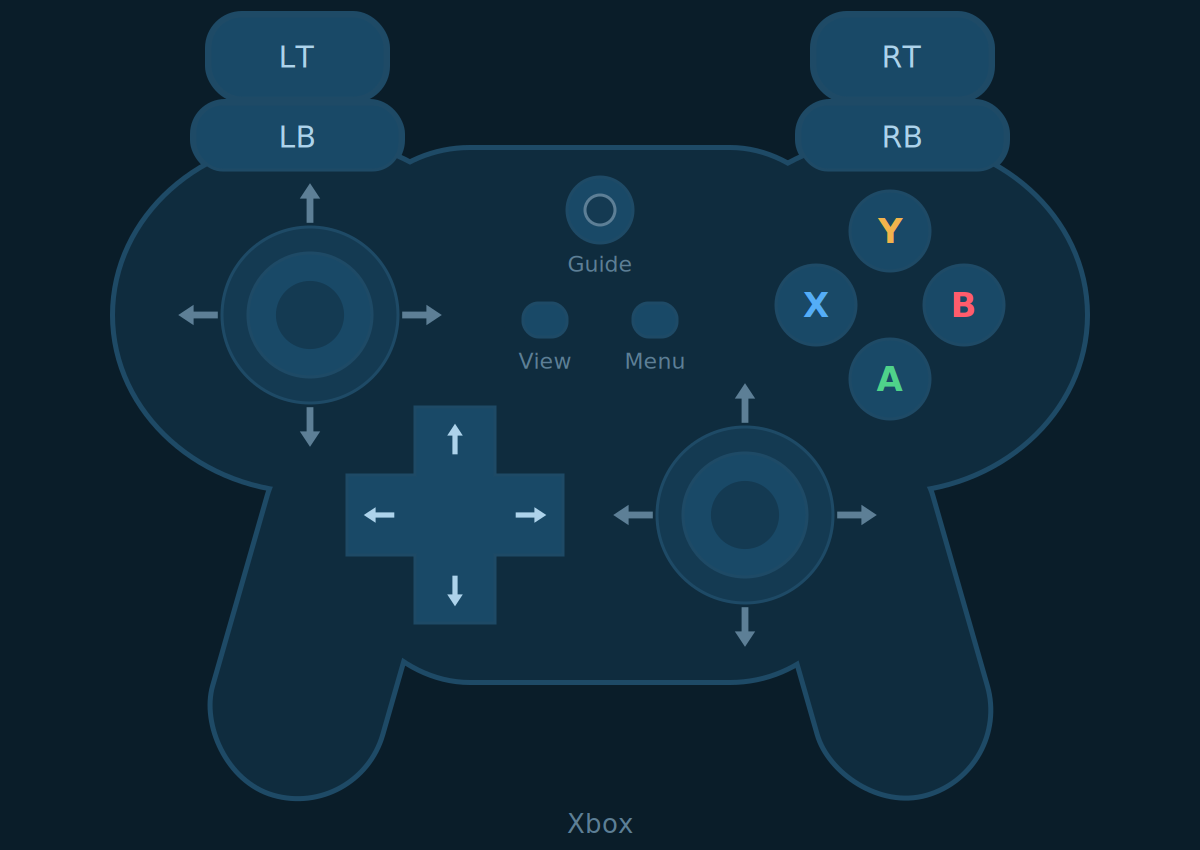
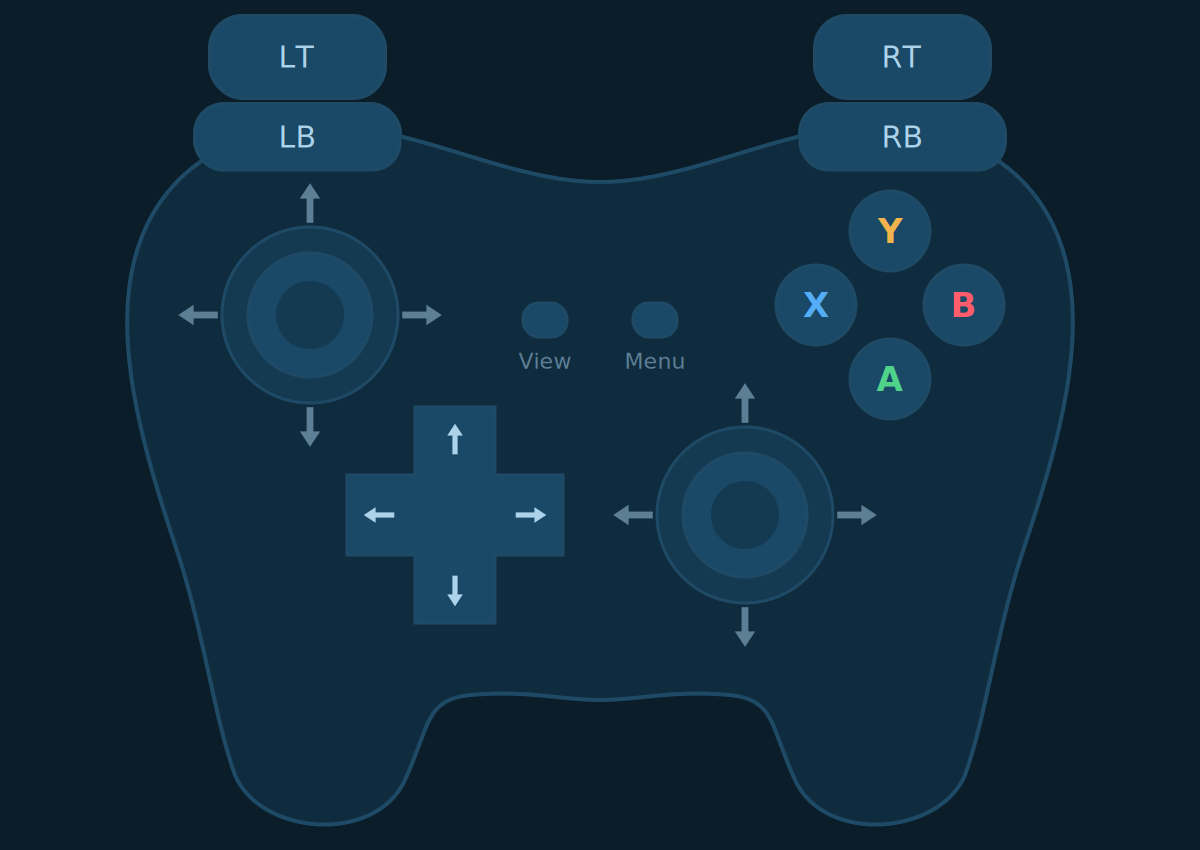
Bundled gamepad maps redrawn; Monitor tiles with a background colour each
- Real controller silhouettes with horns, bindable buttons only, no
  touchpad, no captions.
- Keyboard maps: the wheel arrows light amber like the stick directions.
- "Show unused image-maps" starts off every time.
- Mode buttons are inert until the first game-data load is over.

diff --git a/src/components/ImageStage.vue b/src/components/ImageStage.vue
@@ -1,9 +1,11 @@
 <script setup lang="ts">
-import { computed, ref, watch } from "vue";
+import { computed, onMounted, onUnmounted, ref, watch } from "vue";
 import DeviceImage from "./DeviceImage.vue";
 import { deviceKey, deviceName } from "../devices";
 import Icon from "./Icon.vue";
 import Splitter from "./Splitter.vue";
+import { persistedRef } from "../persist";
+import { colourAlpha, colourHex, composeColour, cssVar, parseHex, readPalette } from "../colour";
 import type { DeviceInfo, ImageMapView } from "../types";
 
 const props = defineProps<{
@@ -55,6 +57,60 @@ function swap(i: number) {
     /* ignore */
   }
 }
+
+// --- tile background colour ---------------------------------------------
+
+// Per device key, `#rrggbb[aa]`; unset = the panel colour. Picked in a
+// small popover on the tile (the fill button in its caption).
+const colours = persistedRef<Record<string, string>>("bindsight.stage.colours", {});
+const colourOpen = ref<string | null>(null);
+// The default tile colour first (clicking it drops the tile's own), then
+// the palette.
+const swatches = ref<string[]>([]);
+let defaultColour = "";
+
+function tileColour(key: string): string {
+  return colours.value[key] ?? defaultColour;
+}
+
+function tileStyle(key: string, share: number): Record<string, string | number> {
+  const own = colours.value[key];
+  return own ? { flexGrow: share, background: own } : { flexGrow: share };
+}
+
+function toggleColour(key: string) {
+  colourOpen.value = colourOpen.value === key ? null : key;
+}
+
+function pickSwatch(key: string, i: number, c: string) {
+  if (i === 0) {
+    const next = { ...colours.value };
+    delete next[key];
+    colours.value = next;
+  } else {
+    colours.value = { ...colours.value, [key]: composeColour(c, colourAlpha(tileColour(key))) };
+  }
+}
+
+function setHex(key: string, e: Event) {
+  const hex = parseHex((e.target as HTMLInputElement).value);
+  if (hex) colours.value = { ...colours.value, [key]: composeColour(hex, colourAlpha(tileColour(key))) };
+}
+
+function setAlpha(key: string, e: Event) {
+  colours.value = { ...colours.value, [key]: composeColour(colourHex(tileColour(key)), Number((e.target as HTMLInputElement).value)) };
+}
+
+function onKey(e: KeyboardEvent) {
+  if (e.key === "Escape") colourOpen.value = null;
+}
+
+onMounted(() => {
+  defaultColour = cssVar("--bg-surface").toLowerCase();
+  swatches.value = [defaultColour, ...readPalette().filter((c) => c !== defaultColour)];
+  window.addEventListener("keydown", onKey);
+});
+onUnmounted(() => window.removeEventListener("keydown", onKey));
 
 // Width share per tile; draggable gutters between neighbours. Remembered per
 // tile count so a HOTAS/HOSAS split survives a restart.
@@ -136,7 +192,7 @@ function onReset(i: number) {
   <div v-if="tiles.length" ref="stageEl" class="stage" :style="{ height: `${height}px`, '--image-max-h': `${height - 56}px` }">
     <template v-for="(t, i) in tiles" :key="t.device.index">
       <Splitter v-if="i > 0" direction="col" @drag="onDrag(i - 1, $event)" @end="onEnd" @reset="onReset(i - 1)" />
-      <div class="tile" :class="{ placeholder: !t.view }" :style="{ flexGrow: shares[i] ?? 1 }">
+      <div class="tile" :class="{ placeholder: !t.view }" :style="tileStyle(deviceKey(t.device), shares[i] ?? 1)">
         <div class="caption">
           <span class="name">{{ deviceName(t.device) }}</span>
           <button v-if="i > 0" type="button" class="move" title="Move left" @click="swap(i - 1)">
@@ -145,6 +201,53 @@ function onReset(i: number) {
           <button v-if="i < tiles.length - 1" type="button" class="move" title="Move right" @click="swap(i)">
             <Icon name="arrow-right" :size="14" />
           </button>
+          <button
+            type="button"
+            class="move"
+            :class="{ on: colourOpen === deviceKey(t.device) }"
+            title="Background colour"
+            @click="toggleColour(deviceKey(t.device))"
+          >
+            <Icon name="drop" :size="14" />
+          </button>
+        </div>
+        <!-- background colour picker, floating under the caption -->
+        <div v-if="colourOpen === deviceKey(t.device)" class="colour-pop">
+          <div class="swatches">
+            <button
+              v-for="(c, j) in swatches"
+              :key="c"
+              type="button"
+              class="swatch"
+              :class="{ on: colourHex(tileColour(deviceKey(t.device))) === c }"
+              :style="{ background: c }"
+              :title="j === 0 ? `Default · ${c}` : c"
+              @click="pickSwatch(deviceKey(t.device), j, c)"
+            />
+          </div>
+          <div class="line">
+            <span class="swatch big" :style="{ background: tileColour(deviceKey(t.device)) }" />
+            <input
+              class="hex mono"
+              :value="colourHex(tileColour(deviceKey(t.device)))"
+              maxlength="7"
+              spellcheck="false"
+              @change="setHex(deviceKey(t.device), $event)"
+            />
+            <input
+              type="range"
+              class="range"
+              min="0"
+              max="100"
+              :value="colourAlpha(tileColour(deviceKey(t.device)))"
+              title="Opacity"
+              @input="setAlpha(deviceKey(t.device), $event)"
+            />
+            <span class="mono val">{{ colourAlpha(tileColour(deviceKey(t.device))) }}%</span>
+            <button type="button" class="move" title="Close" @click="colourOpen = null">
+              <Icon name="close" :size="14" />
+            </button>
+          </div>
         </div>
         <DeviceImage
           v-if="t.view && imgSrc(t.view.map.id, t.view.map.image.file)"
@@ -199,8 +302,97 @@ function onReset(i: number) {
   cursor: pointer;
 }
 
-.move:hover {
+.move:hover,
+.move.on {
   color: var(--accent);
+}
+
+/* --- background colour popover (same controls as the editor's shape panel) --- */
+
+.colour-pop {
+  position: absolute;
+  top: 32px;
+  left: 12px;
+  z-index: 2;
+  display: flex;
+  flex-direction: column;
+  gap: 6px;
+  padding: 10px 12px;
+  border: 1px solid var(--border-dim);
+  border-radius: var(--radius-panel);
+  background: color-mix(in srgb, var(--bg-surface) 92%, transparent);
+}
+
+.swatches {
+  display: flex;
+  flex-wrap: wrap;
+  gap: 4px;
+}
+
+.swatch {
+  width: 18px;
+  height: 18px;
+  border-radius: 3px;
+  border: 1px solid var(--border);
+  padding: 0;
+  cursor: pointer;
+}
+
+.swatch.on {
+  outline: 2px solid var(--text);
+  outline-offset: 1px;
+}
+
+.swatch.big {
+  width: 24px;
+  height: 24px;
+  flex-shrink: 0;
+  cursor: default;
+}
+
+.line {
+  display: flex;
+  align-items: center;
+  gap: 8px;
+}
+
+.hex {
+  width: 74px;
+  height: 24px;
+  padding: 0 6px;
+  border: 1px solid var(--border);
+  border-radius: var(--radius-control);
+  background: var(--bg-surface-2);
+  color: var(--text);
+  font-size: 12px;
+  outline: none;
+}
+
+.val {
+  width: 40px;
+  text-align: right;
+  color: var(--text-2);
+  font-size: 12px;
+}
+
+.range {
+  flex: 0 0 90px;
+  height: 4px;
+  appearance: none;
+  -webkit-appearance: none;
+  background: var(--bg-surface-3);
+  border-radius: 2px;
+  outline: none;
+  cursor: pointer;
+}
+
+.range::-webkit-slider-thumb {
+  -webkit-appearance: none;
+  width: 12px;
+  height: 12px;
+  border-radius: 50%;
+  background: var(--accent);
+  border: none;
 }
 
 .caption {

diff --git a/src/components/ImageMapEditor.vue b/src/components/ImageMapEditor.vue
@@ -23,6 +23,7 @@ import { deviceIcon, deviceName } from "../devices";
 import { KEY_COUNT, MOUSE_INPUTS, recording } from "../keyboard";
 import { persistedRef } from "../persist";
 import { NAME_MAX, sanitizeName, stripNameChars } from "../names";
+import { colourAlpha, colourHex, composeColour, cssVar, parseHex, readPalette, rgbaToHex } from "../colour";
 import {
   SYMBOL_PATHS,
   rectRadiusPx,
@@ -86,10 +87,6 @@ const ZOOMS = [0.5, 0.67, 0.8, 1, 1.25, 1.5, 1.75, 2, 2.5, 3, 4];
 // --- colours ---------------------------------------------------------------
 
 // Konva needs literal colours; the tokens are the only place they are defined.
-function cssVar(name: string): string {
-  return getComputedStyle(document.documentElement).getPropertyValue(name).trim();
-}
-
 function withAlpha(colour: string, alpha: number): string {
   const m = /^#([0-9a-f]{6})$/i.exec(colour);
   if (!m) return colour;
@@ -97,21 +94,6 @@ function withAlpha(colour: string, alpha: number): string {
   return `rgba(${(n >> 16) & 255}, ${(n >> 8) & 255}, ${n & 255}, ${alpha})`;
 }
 
-// --- shape colours (`#rrggbb` or `#rrggbbaa`) ------------------------------
-
-function colourHex(c: string): string {
-  return c.slice(0, 7).toLowerCase();
-}
-
-// Alpha of a colour in percent (100 when it has none).
-function colourAlpha(c: string): number {
-  return c.length === 9 ? Math.round((parseInt(c.slice(7, 9), 16) / 255) * 100) : 100;
-}
-
-function composeColour(hex: string, alpha: number): string {
-  const a = Math.round((Math.min(100, Math.max(0, alpha)) / 100) * 255);
-  return a >= 255 ? hex : `${hex}${a.toString(16).padStart(2, "0")}`;
-}
 
 // Filled once at mount — the stage only exists after an image has loaded.
 const paint = ref({
@@ -138,11 +120,7 @@ function readPaint() {
     tipText: cssVar("--text"),
   };
   const stroke = paint.value.shapeStroke.toLowerCase();
-  const palette = cssVar("--shape-palette")
-    .split(",")
-    .map((c) => c.trim().toLowerCase())
-    .filter((c) => /^#[0-9a-f]{6}$/.test(c) && c !== stroke);
-  swatches.value = [stroke, ...palette];
+  swatches.value = [stroke, ...readPalette().filter((c) => c !== stroke)];
 }
 
 // --- device / image-map selection -----------------------------------------
@@ -179,7 +157,7 @@ interface UnusedGroup {
   icon: "keyboard" | "gamepad" | "devices";
   maps: ImageMapSummary[];
 }
-const showUnused = persistedRef<boolean>("bindsight.devices.showUnused", false);
+const showUnused = ref(false);
 const unusedGroups = computed<UnusedGroup[]>(() => {
   const by = new Map<string, UnusedGroup>();
   for (const s of summaries.value) {
@@ -1063,16 +1041,12 @@ function roleColour(a: Shape, role: ColourRole): string {
   if (own) return own;
   if (role === "stroke") return paint.value.shapeStroke;
   // The fill token is an rgba(); its hex form with alpha for the picker.
-  const m = /rgba?\((\d+),\s*(\d+),\s*(\d+)(?:,\s*([\d.]+))?\)/.exec(paint.value.shapeFill);
-  if (!m) return paint.value.shapeFill;
-  const hex = `#${[m[1], m[2], m[3]].map((n) => Number(n).toString(16).padStart(2, "0")).join("")}`;
-  return composeColour(hex, Math.round(Number(m[4] ?? 1) * 100));
+  return rgbaToHex(paint.value.shapeFill);
 }
 
 function setRoleHex(a: Shape, role: ColourRole, hex: string) {
-  const h = hex.trim().toLowerCase();
-  const full = h.startsWith("#") ? h : `#${h}`;
-  if (!/^#[0-9a-f]{6}$/.test(full)) return;
+  const full = parseHex(hex);
+  if (!full) return;
   a[role] = composeColour(full, colourAlpha(roleColour(a, role)));
 }
 

diff --git a/src/colour.ts b/src/colour.ts
@@ -1,0 +1,43 @@
+// Colour strings the pickers work with: `#rrggbb` or `#rrggbbaa`.
+
+// A CSS custom property's value, trimmed.
+export function cssVar(name: string): string {
+  return getComputedStyle(document.documentElement).getPropertyValue(name).trim();
+}
+
+export function colourHex(c: string): string {
+  return c.slice(0, 7).toLowerCase();
+}
+
+// Alpha of a colour in percent (100 when it has none).
+export function colourAlpha(c: string): number {
+  return c.length === 9 ? Math.round((parseInt(c.slice(7, 9), 16) / 255) * 100) : 100;
+}
+
+export function composeColour(hex: string, alpha: number): string {
+  const a = Math.round((Math.min(100, Math.max(0, alpha)) / 100) * 255);
+  return a >= 255 ? hex : `${hex}${a.toString(16).padStart(2, "0")}`;
+}
+
+// `#rrggbb` from user input (with or without the `#`), null when invalid.
+export function parseHex(input: string): string | null {
+  const h = input.trim().toLowerCase();
+  const full = h.startsWith("#") ? h : `#${h}`;
+  return /^#[0-9a-f]{6}$/.test(full) ? full : null;
+}
+
+// An `rgba(r, g, b, a)` token value as `#rrggbb[aa]`; other values pass through.
+export function rgbaToHex(c: string): string {
+  const m = /rgba?\((\d+),\s*(\d+),\s*(\d+)(?:,\s*([\d.]+))?\)/.exec(c);
+  if (!m) return c;
+  const hex = `#${[m[1], m[2], m[3]].map((n) => Number(n).toString(16).padStart(2, "0")).join("")}`;
+  return composeColour(hex, Math.round(Number(m[4] ?? 1) * 100));
+}
+
+// The `--shape-palette` token as a list of `#rrggbb` swatches.
+export function readPalette(): string[] {
+  return cssVar("--shape-palette")
+    .split(",")
+    .map((c) => c.trim().toLowerCase())
+    .filter((c) => /^#[0-9a-f]{6}$/.test(c));
+}

diff --git a/src/components/Icon.vue b/src/components/Icon.vue
@@ -65,6 +65,8 @@ export const ICONS = {
   'shape-rect': '<rect x="4" y="5" width="16" height="14" rx="1"/>',
   'shape-ellipse': '<ellipse cx="12" cy="12" rx="8" ry="6"/>',
   'shape-polygon': '<path d="M12 3l8 6-3 10H7L4 9z"/>',
+  // A drop: pick a colour.
+  drop: '<path d="M12 3s6 7 6 11a6 6 0 0 1-12 0c0-4 6-11 6-11z"/>',
   // Any shape: a square behind a circle.
   shape: '<rect x="3" y="3" width="11" height="11" rx="1"/><circle cx="16" cy="16" r="5"/>',
   'shape-arrow': '<path d="M4 12h14M13 6l6 6-6 6"/>',

diff --git a/src/App.vue b/src/App.vue
@@ -346,6 +346,9 @@ async function allSettled(): Promise<boolean> {
 }
 
 async function setMode(m: Mode) {
+  // The mode buttons do nothing while the startup tile is up (no disabled
+  // look on purpose).
+  if (starting.value) return;
   if (mode.value === "devices" && m !== "devices") {
     if ((await editor.value?.requestLeave()) === false) return;
   }
